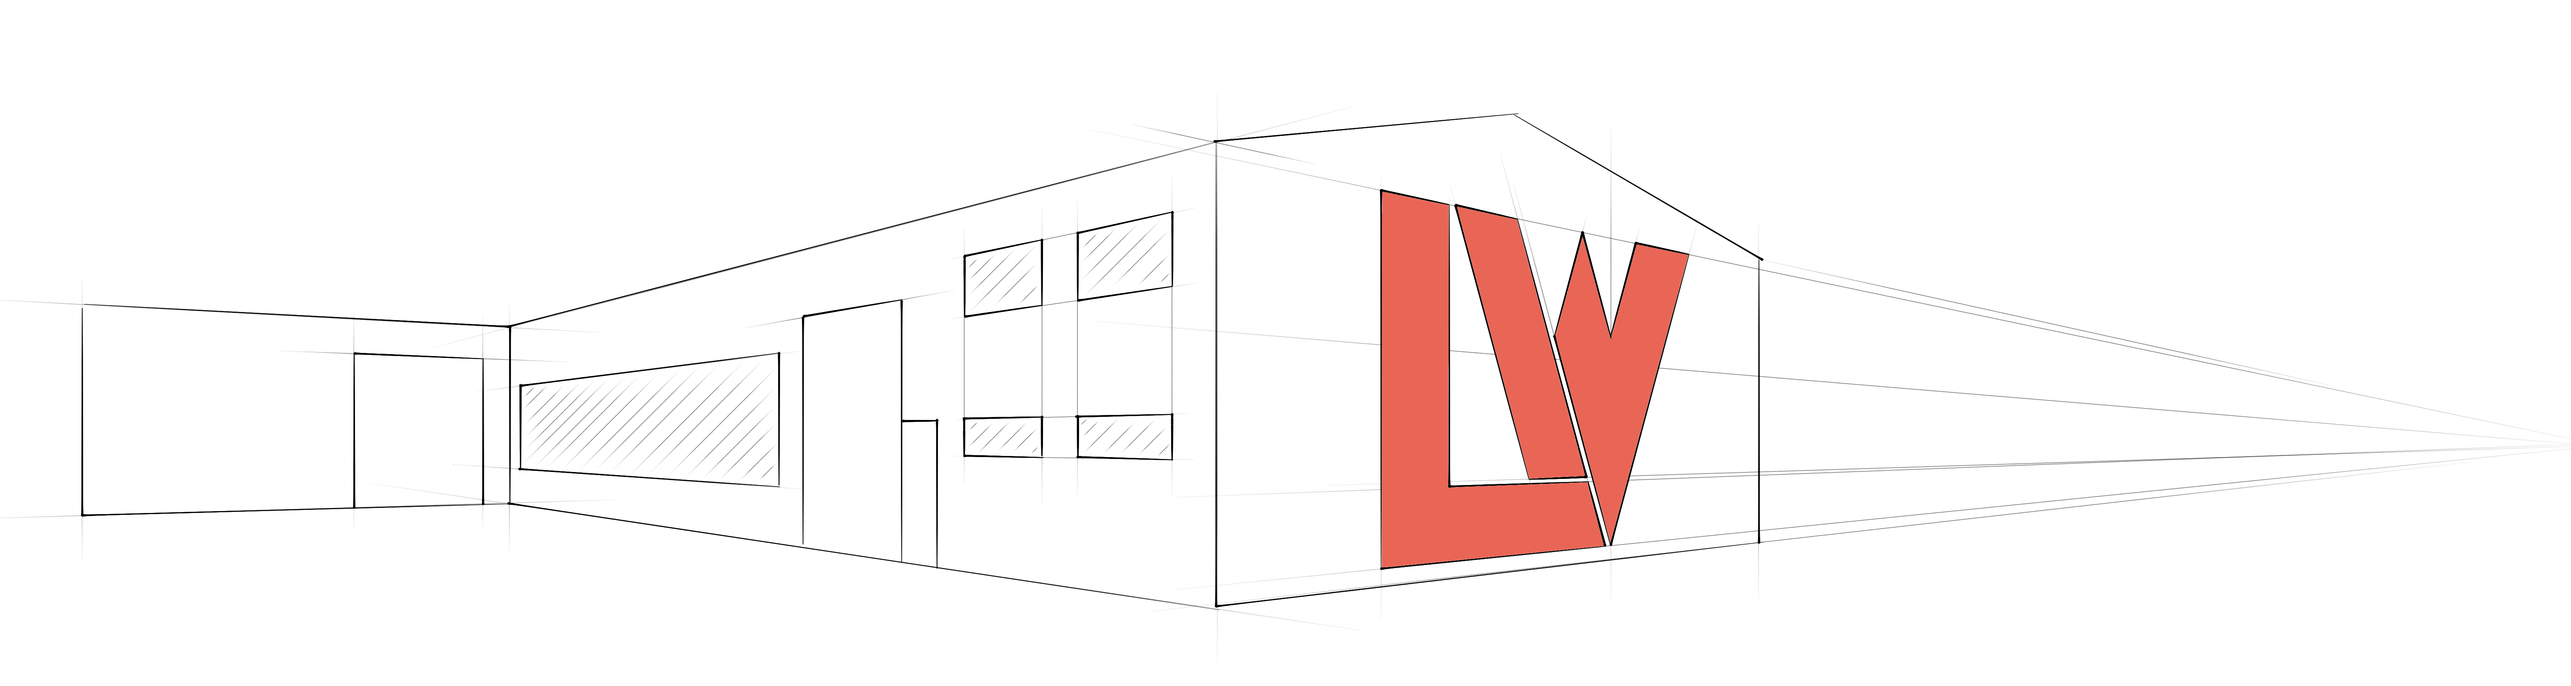
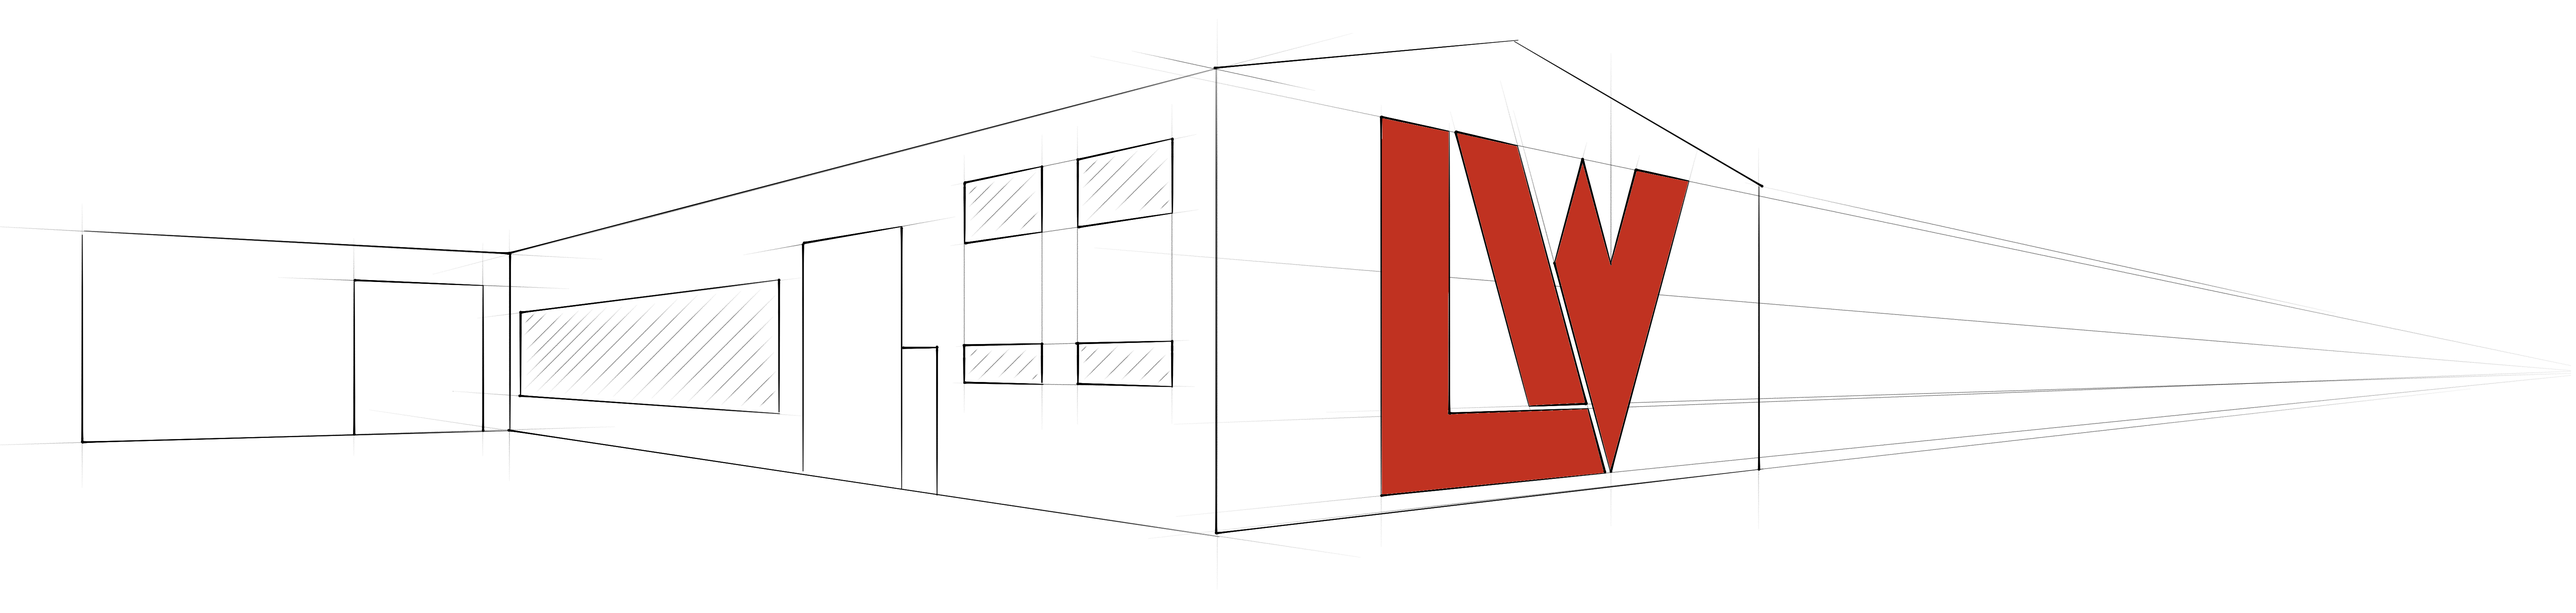
change colors

diff --git a/stylesheets/header.css b/stylesheets/header.css
@@ -55,19 +55,19 @@
 }
 
 .scrollToContact {
-  background-color: #e96656;
+  background-color: #195757;
 }
 
 .scrollToServices {
-  background-color: #069059;
+  background-color: #c03221;
 }
 
 .scrollToContact:hover {
-  background-color: #ba5245;
+  background-color: #154848;
 }
 
 .scrollToServices:hover {
-  background-color: #057347;
+  background-color: #9e291c;
 }
 
 @media all and (max-width: 1300px) {

diff --git a/stylesheets/footer.css b/stylesheets/footer.css
@@ -63,13 +63,18 @@
   padding: 5px;
   height: 50px;
   width: 200px;
-  background-color: #069059;
+  background-color: #195757;
+  transition: all 0.3s ease-in-out;
   color: white;
   border: none;
   cursor: pointer;
   font-size: 16px;
   font-family: "Abel", sans-serif;
   font-weight: 200;
+}
+
+.cookieButton:hover {
+  background-color: #154848;
 }
 
 @media all and (max-width: 880px) {

diff --git a/stylesheets/content.css b/stylesheets/content.css
@@ -130,19 +130,21 @@
   height: 78px;
   width: 304px;
   padding: 0px;
+  border: none;
 }
 
 .submit {
   float: right;
   margin-right: 10px;
-  background: #e96656;
+  background: #c03221;
   height: 45px;
   width: 304px;
   color: white;
+  border: none;
 }
 
 .submit:hover {
-  background: #ba5245;
+  background: #9e291c;
 }
 
 .contentMap {

diff --git a/stylesheets/navbar.css b/stylesheets/navbar.css
@@ -20,7 +20,7 @@
 }
 
 .scrollToStart {
-  background-color: #e96656;
+  background-color: #c03221;
   color: white;
 }
 
@@ -31,7 +31,7 @@
 }
 
 .scrollToStart:hover {
-  background-color: #ba5245;
+  background-color: #9e291c;
 }
 
 .frameLine {
